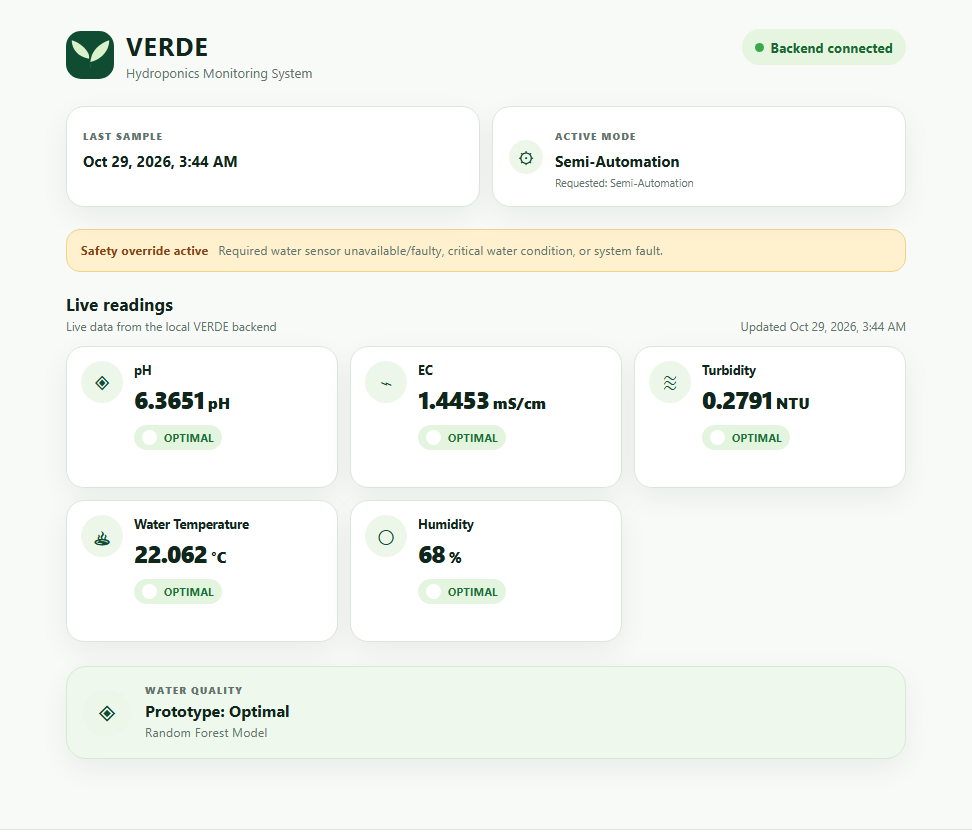
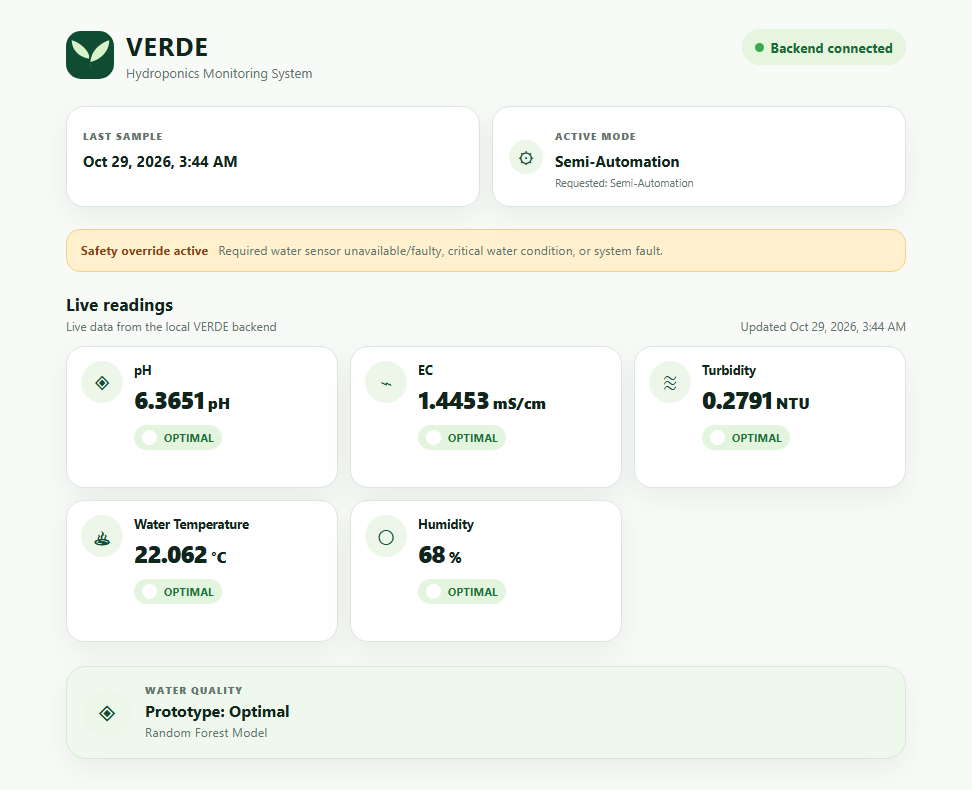
fix: trim VERDE dashboard screenshot margin

diff --git a/src/content/projects.ts b/src/content/projects.ts
@@ -141,7 +141,7 @@ export const projects: Project[] = [
             src: "/projects/verde/verde-dashboard.png",
             name: "web dashboard screenshot",
             width: 972,
-            height: 835,
+            height: 790,
             alt: "VERDE web dashboard showing live pH, EC, turbidity, water temperature and humidity readings, each marked Optimal, with Semi-Automation mode active and a Random Forest water-quality result of Optimal.",
             caption:
               "Web dashboard in Semi-Automation mode with a safety override notice active, showing live sensor readings and the Random Forest water-quality result.",
